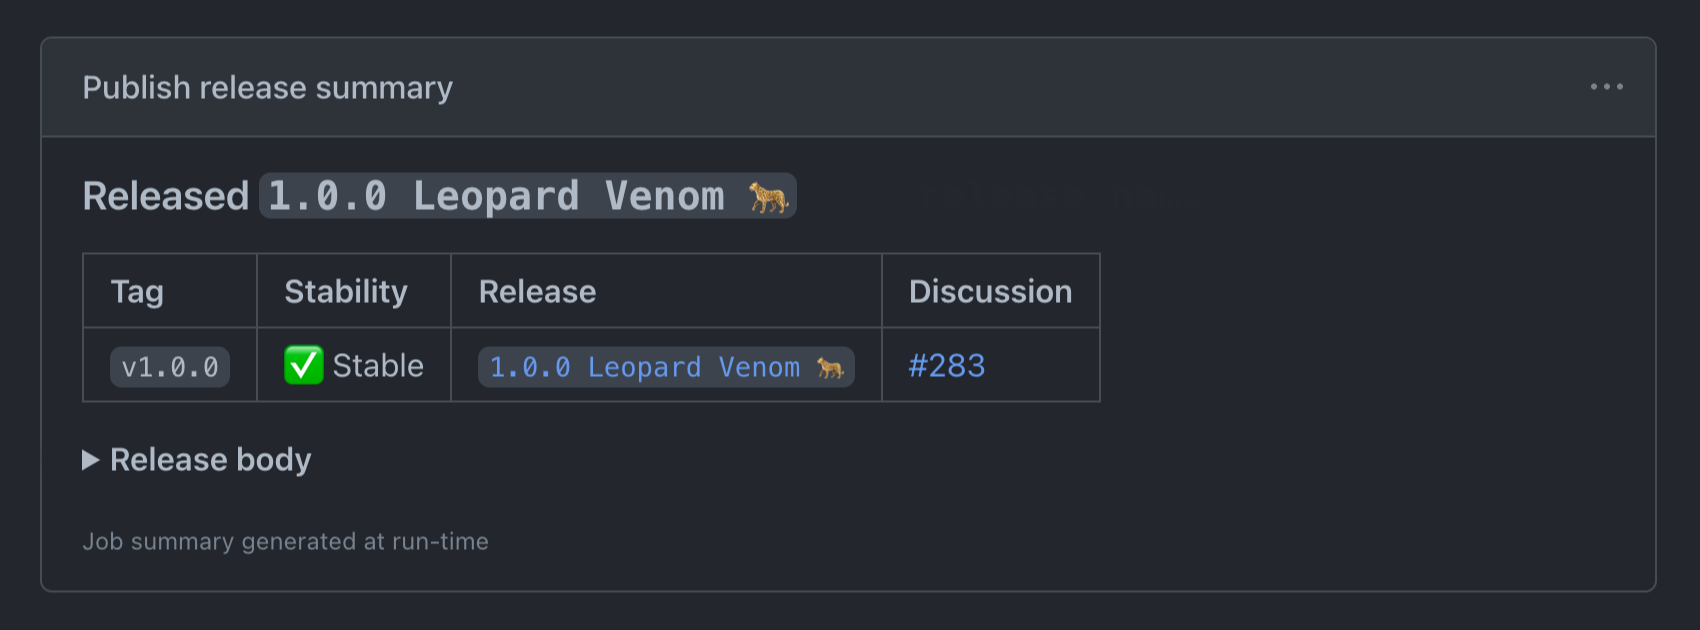
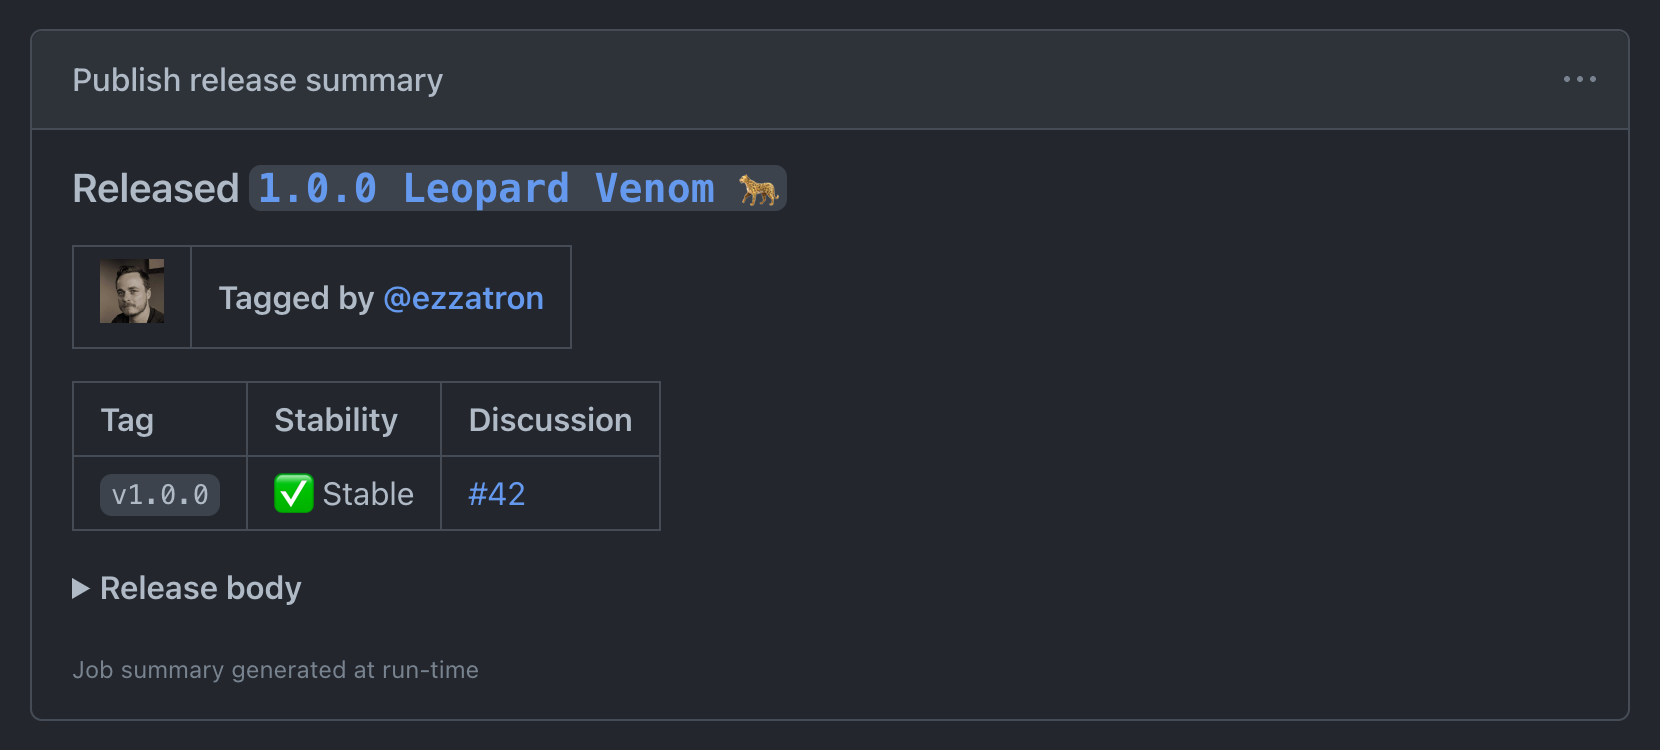
Add tagger information to release summaries

diff --git a/src/summary.js b/src/summary.js
@@ -3,20 +3,17 @@ import { toMarkdown } from "mdast-util-to-markdown";
 
 const BODY_TOKEN = "{{GITHUB_RELEASE_ACTION_BODY}}";
 
-export function renderSummary({
-  body,
-  discussion_url,
-  draft,
-  html_url,
-  name,
-  prerelease,
-  tag_name,
-}) {
+export function renderSummary({ release, tagger }) {
+  const { body, discussion_url, draft, html_url, name, prerelease, tag_name } =
+    release;
+  const hasTagger = tagger?.avatarUrl && tagger?.login;
+
   const rendered = toMarkdown(
     {
       type: "root",
       children: [
         ...titleAST(),
+        ...taggerAST(),
         ...detailsAST(),
         ...bodyAST(),
         ...definitionsAST(),
@@ -45,6 +42,53 @@ export function renderSummary({
           },
         ],
       },
+    ];
+  }
+
+  function taggerAST() {
+    if (!hasTagger) return [];
+
+    const { avatarUrl, login } = tagger;
+
+    return [
+      createTableAST(
+        undefined,
+        [
+          [
+            {
+              type: "linkReference",
+              identifier: "tagger-url",
+              label: "tagger-url",
+              referenceType: "full",
+              children: [
+                {
+                  type: "html",
+                  value: `<img alt="@${login}" src="${avatarUrl}" width="32">`,
+                },
+              ],
+            },
+          ],
+          [
+            {
+              type: "text",
+              value: "Tagged by ",
+            },
+            {
+              type: "linkReference",
+              identifier: "tagger-url",
+              label: "tagger-url",
+              referenceType: "full",
+              children: [
+                {
+                  type: "text",
+                  value: `@${login}`,
+                },
+              ],
+            },
+          ],
+        ],
+        []
+      ),
     ];
   }
 
@@ -162,6 +206,16 @@ export function renderSummary({
       url: html_url,
       title: null,
     });
+
+    if (hasTagger) {
+      definitions.push({
+        type: "definition",
+        identifier: "tagger-url",
+        label: "tagger-url",
+        url: `https://github.com/${encodeURIComponent(tagger.login)}`,
+        title: null,
+      });
+    }
 
     return definitions;
   }

diff --git a/test/suite/render-summary.spec.js b/test/suite/render-summary.spec.js
@@ -7,17 +7,19 @@ const fixturesPath = join(__dirname, "../fixture/summary");
 
 describe("renderSummary()", () => {
   it.each`
-    label                                  | fixture
-    ${"handle stable releases"}            | ${"stable"}
-    ${"handle pre-release releases"}       | ${"pre-release"}
-    ${"handle draft releases"}             | ${"draft"}
-    ${"handle releases with discussions"}  | ${"with-discussion"}
-    ${"handle releases with empty bodies"} | ${"empty-body"}
+    label                                               | fixture
+    ${"handle stable releases"}                         | ${"stable"}
+    ${"handle pre-release releases"}                    | ${"pre-release"}
+    ${"handle draft releases"}                          | ${"draft"}
+    ${"handle releases with discussions"}               | ${"with-discussion"}
+    ${"handle releases with empty bodies"}              | ${"empty-body"}
+    ${"handle releases with incomplete tagger details"} | ${"incomplete-tagger"}
   `("should $label", async ({ fixture }) => {
     const fixturePath = join(fixturesPath, fixture);
     const release = load(await readFile(join(fixturePath, "release.yml")));
+    const tagger = load(await readFile(join(fixturePath, "tagger.yml")));
     const expected = String(await readFile(join(fixturePath, "expected.md")));
 
-    expect(renderSummary(release)).toBe(expected);
+    expect(renderSummary({ release, tagger })).toBe(expected);
   });
 });

diff --git a/src/main.js b/src/main.js
@@ -212,5 +212,5 @@ async function main() {
     setOutput,
   });
 
-  await summary.addRaw(renderSummary(release)).write();
+  await summary.addRaw(renderSummary({ release, tagger })).write();
 }

diff --git a/test/fixture/summary/with-discussion/expected.md b/test/fixture/summary/with-discussion/expected.md
@@ -1,5 +1,8 @@
 ### Released `name-a`
 
+| [<img alt="@login-a" src="https://avatars.githubusercontent.com/u/123456" width="32">][tagger-url] | Tagged by [@login-a][tagger-url] |
+| -------------------------------------------------------------------------------------------------- | -------------------------------- |
+
 | Tag          | Stability | Release                 | Discussion             |
 | :----------- | :-------- | :---------------------- | :--------------------- |
 | `tag-name-a` | ✅ Stable  | [`name-a`][release-url] | [#123][discussion-url] |
@@ -13,3 +16,5 @@ This is a _release_ 🎉
 [discussion-url]: https://github.com/owner-a/repo-a/discussions/123
 
 [release-url]: https://github.com/owner-a/repo-a/releases/tag/release-a
+
+[tagger-url]: https://github.com/login-a

diff --git a/test/fixture/summary/pre-release/expected.md b/test/fixture/summary/pre-release/expected.md
@@ -1,5 +1,8 @@
 ### Released `name-a`
 
+| [<img alt="@login-a" src="https://avatars.githubusercontent.com/u/123456" width="32">][tagger-url] | Tagged by [@login-a][tagger-url] |
+| -------------------------------------------------------------------------------------------------- | -------------------------------- |
+
 | Tag          | Stability      | Release                 |
 | :----------- | :------------- | :---------------------- |
 | `tag-name-a` | ⚠ Pre-release | [`name-a`][release-url] |
@@ -11,3 +14,5 @@ This is a _release_ 🎉
 </details>
 
 [release-url]: https://github.com/owner-a/repo-a/releases/tag/release-a
+
+[tagger-url]: https://github.com/login-a

diff --git a/test/fixture/summary/draft/expected.md b/test/fixture/summary/draft/expected.md
@@ -1,5 +1,8 @@
 ### Drafted release `name-a`
 
+| [<img alt="@login-a" src="https://avatars.githubusercontent.com/u/123456" width="32">][tagger-url] | Tagged by [@login-a][tagger-url] |
+| -------------------------------------------------------------------------------------------------- | -------------------------------- |
+
 | Tag          | Stability | Release                 |
 | :----------- | :-------- | :---------------------- |
 | `tag-name-a` | ✅ Stable  | [`name-a`][release-url] |
@@ -11,3 +14,5 @@ This is a _release_ 🎉
 </details>
 
 [release-url]: https://github.com/owner-a/repo-a/releases/tag/release-a
+
+[tagger-url]: https://github.com/login-a

diff --git a/test/fixture/summary/incomplete-tagger/expected.md b/test/fixture/summary/incomplete-tagger/expected.md
@@ -1,8 +1,5 @@
 ### Released `name-a`
 
-| [<img alt="@login-a" src="https://avatars.githubusercontent.com/u/123456" width="32">][tagger-url] | Tagged by [@login-a][tagger-url] |
-| -------------------------------------------------------------------------------------------------- | -------------------------------- |
-
 | Tag          | Stability | Release                 |
 | :----------- | :-------- | :---------------------- |
 | `tag-name-a` | ✅ Stable  | [`name-a`][release-url] |
@@ -14,5 +11,3 @@ This is a _release_ 🎉
 </details>
 
 [release-url]: https://github.com/owner-a/repo-a/releases/tag/release-a
-
-[tagger-url]: https://github.com/login-a

diff --git a/test/fixture/summary/empty-body/expected.md b/test/fixture/summary/empty-body/expected.md
@@ -1,7 +1,12 @@
 ### Released `name-a`
 
+| [<img alt="@login-a" src="https://avatars.githubusercontent.com/u/123456" width="32">][tagger-url] | Tagged by [@login-a][tagger-url] |
+| -------------------------------------------------------------------------------------------------- | -------------------------------- |
+
 | Tag          | Stability | Release                 |
 | :----------- | :-------- | :---------------------- |
 | `tag-name-a` | ✅ Stable  | [`name-a`][release-url] |
 
 [release-url]: https://github.com/owner-a/repo-a/releases/tag/release-a
+
+[tagger-url]: https://github.com/login-a

diff --git a/CHANGELOG.md b/CHANGELOG.md
@@ -11,10 +11,14 @@ Versioning].
 
 ### Added
 
+- Actions [job summaries][v3.1-job-summaries] will now include information about
+  the user that created the tag.
 - Added the `taggerAvatarUrl` output, which contains the avatar URL of the
   GitHub user who created the tag.
 - Added the `taggerLogin` output, which contains the username of the GitHub user
   who created the tag.
+
+[v3.1-job-summaries]: https://github.com/eloquent/github-release-action/tree/v3.1.0#job-summaries
 
 ## [v3.0.0] - 2022-09-10
 
